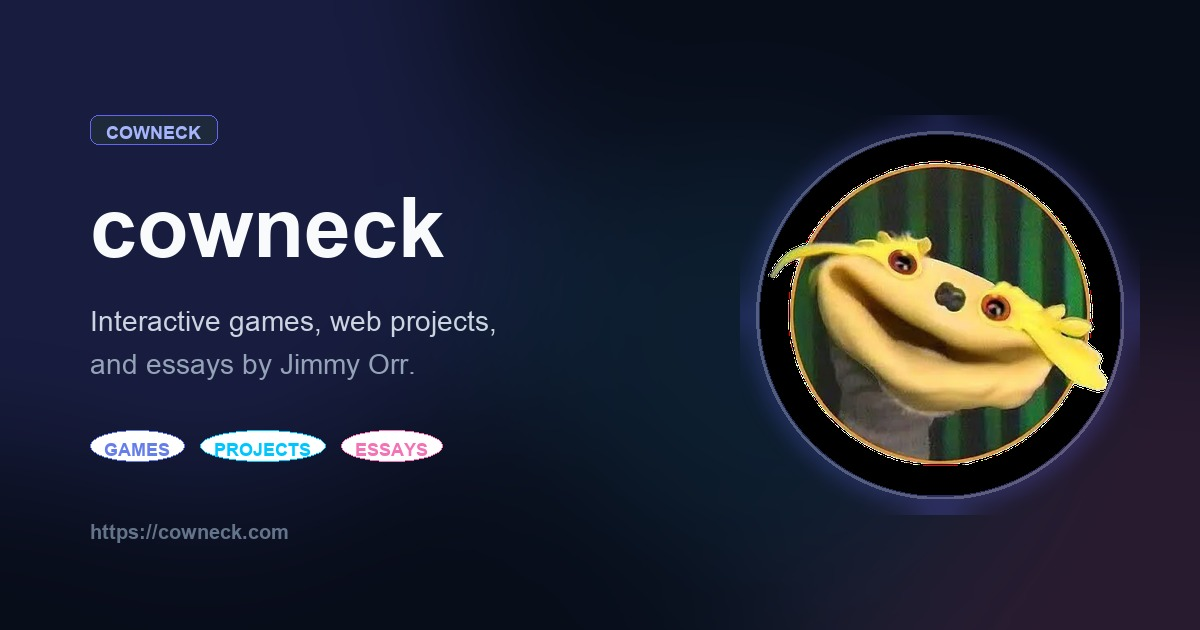
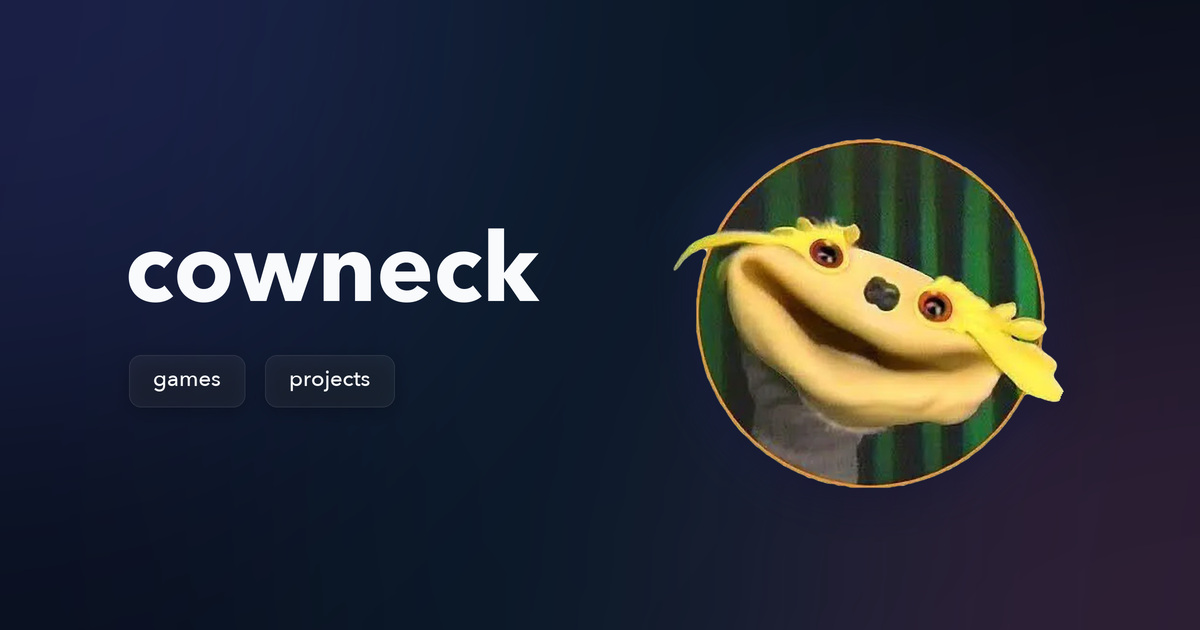
Redesign og-image.jpg with minimal homepage-matched split layout

diff --git a/scripts/generate-og-image.py b/scripts/generate-og-image.py
@@ -1,122 +1,169 @@
 #!/usr/bin/env python3
 """
 Generate a 1200x630 social preview image (Open Graph / Twitter card) for cowneck.com
-Featuring Chester, the site aesthetic, and brand typography.
+Minimal split layout matching the homepage aesthetic.
 """
-import math
 import os
-from PIL import Image, ImageDraw, ImageFont, ImageFilter
+from PIL import Image, ImageChops, ImageDraw, ImageFilter, ImageFont
+
+
+def load_font(size, weight="regular"):
+    avenir_path = "/System/Library/Fonts/Avenir Next.ttc"
+    if os.path.exists(avenir_path):
+        # Avenir Next indices: 0=Bold, 2=Demi Bold, 5=Medium, 7=Regular
+        index_map = {"bold": 0, "demi": 2, "medium": 5, "regular": 7}
+        return ImageFont.truetype(avenir_path, size, index=index_map.get(weight, 7))
+
+    helv_path = "/System/Library/Fonts/HelveticaNeue.ttc"
+    if os.path.exists(helv_path):
+        index_map = {"bold": 1, "demi": 10, "medium": 10, "regular": 0}
+        return ImageFont.truetype(helv_path, size, index=index_map.get(weight, 0))
+
+    return ImageFont.load_default()
+
+
+def draw_radial_glow(canvas, center_x, center_y, radius, color_rgb, max_alpha):
+    """Draw a smooth radial gradient glow onto an RGBA canvas."""
+    glow = Image.new("RGBA", canvas.size, (0, 0, 0, 0))
+    draw = ImageDraw.Draw(glow)
+    x0 = center_x - radius
+    y0 = center_y - radius
+    x1 = center_x + radius
+    y1 = center_y + radius
+    draw.ellipse((x0, y0, x1, y1), fill=(*color_rgb, max_alpha))
+    glow = glow.filter(ImageFilter.GaussianBlur(radius * 0.45))
+    return Image.alpha_composite(canvas, glow)
+
 
 def create_og_image():
-    W, H = 1200, 630
-    img = Image.new("RGBA", (W, H), (8, 13, 26, 255)) # #080d1a
-    
-    # Glow layer
-    glow = Image.new("RGBA", (W, H), (0, 0, 0, 0))
-    glow_draw = ImageDraw.Draw(glow)
-    
-    # 1. Indigo glow top-left
-    glow_draw.ellipse((-150, -150, 550, 550), fill=(99, 102, 241, 45))
-    # 2. Pink glow bottom-right
-    glow_draw.ellipse((750, 250, 1400, 850), fill=(244, 114, 182, 35))
-    # 3. Cyan glow near center-right
-    glow_draw.ellipse((500, 100, 1000, 600), fill=(56, 189, 248, 25))
-    
-    glow = glow.filter(ImageFilter.GaussianBlur(80))
-    img = Image.alpha_composite(img, glow)
-    
-    # Chester avatar
+    # Render at 2x resolution for crisp anti-aliased typography and borders
+    SCALE = 2
+    W, H = 1200 * SCALE, 630 * SCALE
+
+    # Base background: #080d1a
+    img = Image.new("RGBA", (W, H), (8, 13, 26, 255))
+
+    # Match index.html radial gradients:
+    # radial-gradient(circle at 10% 15%, rgba(99, 102, 241, 0.15) 0%, transparent 45%)
+    # radial-gradient(circle at 90% 85%, rgba(244, 114, 182, 0.12) 0%, transparent 45%)
+    # radial-gradient(circle at 50% 50%, rgba(56, 189, 248, 0.05) 0%, transparent 60%)
+    img = draw_radial_glow(img, int(W * 0.10), int(H * 0.15), int(W * 0.35), (99, 102, 241), 50)
+    img = draw_radial_glow(img, int(W * 0.90), int(H * 0.85), int(W * 0.35), (244, 114, 182), 40)
+    img = draw_radial_glow(img, int(W * 0.50), int(H * 0.50), int(W * 0.42), (56, 189, 248), 20)
+
+    # Right side: Chester
     chester_path = "chester.webp"
     if os.path.exists(chester_path):
-        chester = Image.open(chester_path).convert("RGBA")
-        avatar_size = 360
-        chester = chester.resize((avatar_size, avatar_size), Image.Resampling.LANCZOS)
-        
-        # Circle mask for Chester
-        mask = Image.new("L", (avatar_size, avatar_size), 0)
-        mask_draw = ImageDraw.Draw(mask)
-        mask_draw.ellipse((0, 0, avatar_size, avatar_size), fill=255)
-        
-        # Outer glow ring for Chester
-        ring_size = avatar_size + 40
-        ring = Image.new("RGBA", (ring_size, ring_size), (0, 0, 0, 0))
-        ring_draw = ImageDraw.Draw(ring)
-        ring_draw.ellipse((0, 0, ring_size, ring_size), fill=(99, 102, 241, 60))
-        ring = ring.filter(ImageFilter.GaussianBlur(12))
-        
-        # Border stroke ring
-        stroke_size = avatar_size + 8
-        stroke_layer = Image.new("RGBA", (stroke_size, stroke_size), (0, 0, 0, 0))
-        stroke_draw = ImageDraw.Draw(stroke_layer)
-        stroke_draw.ellipse((0, 0, stroke_size, stroke_size), outline=(255, 255, 255, 60), width=3)
-        
-        avatar_x = 760
+        chester_orig = Image.open(chester_path).convert("RGBA")
+        cw, ch = chester_orig.size
+
+        # Clip only the outer square corner artifact pixels at (0,0), (439,0), (0,439)
+        # while preserving Chester's true alpha channel and protruding eyebrows
+        corner_mask = Image.new("L", (cw, ch), 0)
+        corner_draw = ImageDraw.Draw(corner_mask)
+        corner_draw.ellipse((2, 2, cw - 3, ch - 3), fill=255)
+        clean_alpha = ImageChops.multiply(chester_orig.getchannel("A"), corner_mask)
+        chester_orig.putalpha(clean_alpha)
+
+        avatar_size = 420 * SCALE
+        chester = chester_orig.resize((avatar_size, avatar_size), Image.Resampling.LANCZOS)
+        chester_alpha = chester.getchannel("A")
+
+        avatar_x = 660 * SCALE
         avatar_y = (H - avatar_size) // 2
-        
-        # Paste glow ring
-        img.paste(ring, (avatar_x - 20, avatar_y - 20), ring)
-        # Paste stroke
-        img.paste(stroke_layer, (avatar_x - 4, avatar_y - 4), stroke_layer)
-        # Paste Chester
-        img.paste(chester, (avatar_x, avatar_y), mask)
-    
-    draw = ImageDraw.Draw(img)
-    
-    # Fonts
-    font_bold = "/System/Library/Fonts/Supplemental/Arial Bold.ttf"
-    font_reg = "/System/Library/Fonts/Supplemental/Arial.ttf"
-    if not os.path.exists(font_bold):
-        font_bold = "/System/Library/Fonts/Helvetica.ttc"
-        font_reg = "/System/Library/Fonts/Helvetica.ttc"
-        
-    f_badge = ImageFont.truetype(font_bold, 18)
-    f_title = ImageFont.truetype(font_bold, 84)
-    f_subtitle = ImageFont.truetype(font_reg, 28)
-    f_tag = ImageFont.truetype(font_bold, 18)
-    f_url = ImageFont.truetype(font_bold, 20)
-    
-    left_x = 90
-    
-    # 1. Badge "COWNECK"
-    badge_text = "COWNECK"
-    bbox = draw.textbbox((0, 0), badge_text, font=f_badge)
-    bw = bbox[2] - bbox[0]
-    bh = bbox[3] - bbox[1]
-    bx, by = left_x, 115
-    pad_x, pad_y = 16, 8
-    badge_rect = (bx, by, bx + bw + pad_x * 2, by + bh + pad_y * 2)
-    draw.rounded_rectangle(badge_rect, radius=8, fill=(30, 41, 59, 180), outline=(99, 102, 241, 140), width=1)
-    draw.text((bx + pad_x, by + pad_y - 1), badge_text, font=f_badge, fill=(165, 180, 252))
-    
-    # 2. Main Title
-    draw.text((left_x, 180), "cowneck", font=f_title, fill=(248, 250, 252))
-    
-    # 3. Subtitle description
-    sub_line1 = "Interactive games, web projects,"
-    sub_line2 = "and essays by Jimmy Orr."
-    draw.text((left_x, 305), sub_line1, font=f_subtitle, fill=(203, 213, 225))
-    draw.text((left_x, 348), sub_line2, font=f_subtitle, fill=(148, 163, 184))
-    
-    # 4. Feature Pills
-    pills = [("GAMES", (102, 126, 234)), ("PROJECTS", (0, 198, 255)), ("ESSAYS", (244, 114, 182))]
-    px = left_x
-    py = 430
-    for label, col in pills:
-        p_bbox = draw.textbbox((0, 0), label, font=f_tag)
-        pw = p_bbox[2] - p_bbox[0]
-        ph = p_bbox[3] - p_bbox[1]
-        p_rect = (px, py, px + pw + 28, py + ph + 18)
-        draw.rounded_rectangle(p_rect, radius=999, fill=(255, 255, 255, 14), outline=(col[0], col[1], col[2], 120), width=1)
-        draw.text((px + 14, py + 9), label, font=f_tag, fill=(col[0], col[1], col[2]))
-        px += pw + 44
-        
-    # 5. Domain footer
-    draw.text((left_x, 520), "https://cowneck.com", font=f_url, fill=(100, 116, 139))
-    
-    # Save as high quality JPEG
-    final_rgb = img.convert("RGB")
-    final_rgb.save("og-image.jpg", "JPEG", quality=92, optimize=True)
+
+        # Soft indigo ambient glow behind Chester (matching index.html box-shadow)
+        glow_pad = 60 * SCALE
+        glow_layer = Image.new("RGBA", (W, H), (0, 0, 0, 0))
+        indigo_sil = Image.new("RGBA", (avatar_size, avatar_size), (99, 102, 241, 0))
+        indigo_sil.putalpha(chester_alpha.point(lambda a: int(a * 0.28)))
+        glow_layer.paste(indigo_sil, (avatar_x, avatar_y))
+        glow_layer = glow_layer.filter(ImageFilter.GaussianBlur(28 * SCALE))
+        img = Image.alpha_composite(img, glow_layer)
+
+        # Soft dark drop shadow (0 10px 40px rgba(0,0,0,0.45))
+        shadow_layer = Image.new("RGBA", (W, H), (0, 0, 0, 0))
+        black_sil = Image.new("RGBA", (avatar_size, avatar_size), (0, 0, 0, 0))
+        black_sil.putalpha(chester_alpha.point(lambda a: int(a * 0.50)))
+        shadow_layer.paste(black_sil, (avatar_x, avatar_y + 10 * SCALE))
+        shadow_layer = shadow_layer.filter(ImageFilter.GaussianBlur(22 * SCALE))
+        img = Image.alpha_composite(img, shadow_layer)
+
+        # Composite Chester cleanly using his alpha channel
+        chester_layer = Image.new("RGBA", (W, H), (0, 0, 0, 0))
+        chester_layer.paste(chester, (avatar_x, avatar_y), chester)
+        img = Image.alpha_composite(img, chester_layer)
+
+    # Left side: Minimal typography + frosted buttons matching index.html
+    ui_layer = Image.new("RGBA", (W, H), (0, 0, 0, 0))
+    draw = ImageDraw.Draw(ui_layer)
+
+    f_title = load_font(96 * SCALE, weight="bold")
+    f_btn = load_font(22 * SCALE, weight="medium")
+
+    left_x = 125 * SCALE
+
+    # 1. Wordmark "cowneck"
+    title_text = "cowneck"
+    title_y = 205 * SCALE
+    draw.text((left_x, title_y), title_text, font=f_title, fill=(248, 250, 252, 255))
+
+    # 2. Frosted glass buttons matching index.html (.links a)
+    # padding: 10px 18px; border: 1px solid rgba(255, 255, 255, 0.1);
+    # border-radius: 12px; background: rgba(255, 255, 255, 0.05); color: #f8fafc;
+    buttons = ["games", "projects"]
+    btn_x = left_x + 4 * SCALE
+    btn_y = 355 * SCALE
+    pad_x = 24 * SCALE
+    pad_y = 13 * SCALE
+    btn_gap = 20 * SCALE
+    radius = 12 * SCALE
+
+    # Measure x-height once so both buttons share the exact same baseline
+    x_bbox = draw.textbbox((0, 0), "x", font=f_btn)
+    x_h = x_bbox[3] - x_bbox[1]
+    bh = 52 * SCALE
+    text_baseline_y = btn_y + (bh - x_h) // 2 - x_bbox[1]
+
+    for label in buttons:
+        bbox = draw.textbbox((0, 0), label, font=f_btn)
+        tw = bbox[2] - bbox[0]
+        bw = tw + pad_x * 2
+
+        # Button drop shadow
+        btn_shadow = Image.new("RGBA", (W, H), (0, 0, 0, 0))
+        s_draw = ImageDraw.Draw(btn_shadow)
+        s_draw.rounded_rectangle(
+            (btn_x, btn_y + 4 * SCALE, btn_x + bw, btn_y + bh + 4 * SCALE),
+            radius=radius,
+            fill=(0, 0, 0, 65),
+        )
+        btn_shadow = btn_shadow.filter(ImageFilter.GaussianBlur(8 * SCALE))
+        img = Image.alpha_composite(img, btn_shadow)
+
+        # Frosted button background & border
+        rect = (btn_x, btn_y, btn_x + bw, btn_y + bh)
+        draw.rounded_rectangle(
+            rect,
+            radius=radius,
+            fill=(255, 255, 255, 14),
+            outline=(255, 255, 255, 30),
+            width=1 * SCALE,
+        )
+
+        # Center text horizontally and align to shared baseline vertically
+        tx = btn_x + (bw - tw) // 2 - bbox[0]
+        draw.text((tx, text_baseline_y), label, font=f_btn, fill=(248, 250, 252, 255))
+
+        btn_x += bw + btn_gap
+
+    img = Image.alpha_composite(img, ui_layer)
+
+    # Downsample to 1200x630 and save as high quality JPEG
+    final_img = img.resize((1200, 630), Image.Resampling.LANCZOS).convert("RGB")
+    final_img.save("og-image.jpg", "JPEG", quality=94, subsampling=0, optimize=True)
     print("Created og-image.jpg (1200x630)")
+
 
 if __name__ == "__main__":
     create_og_image()
